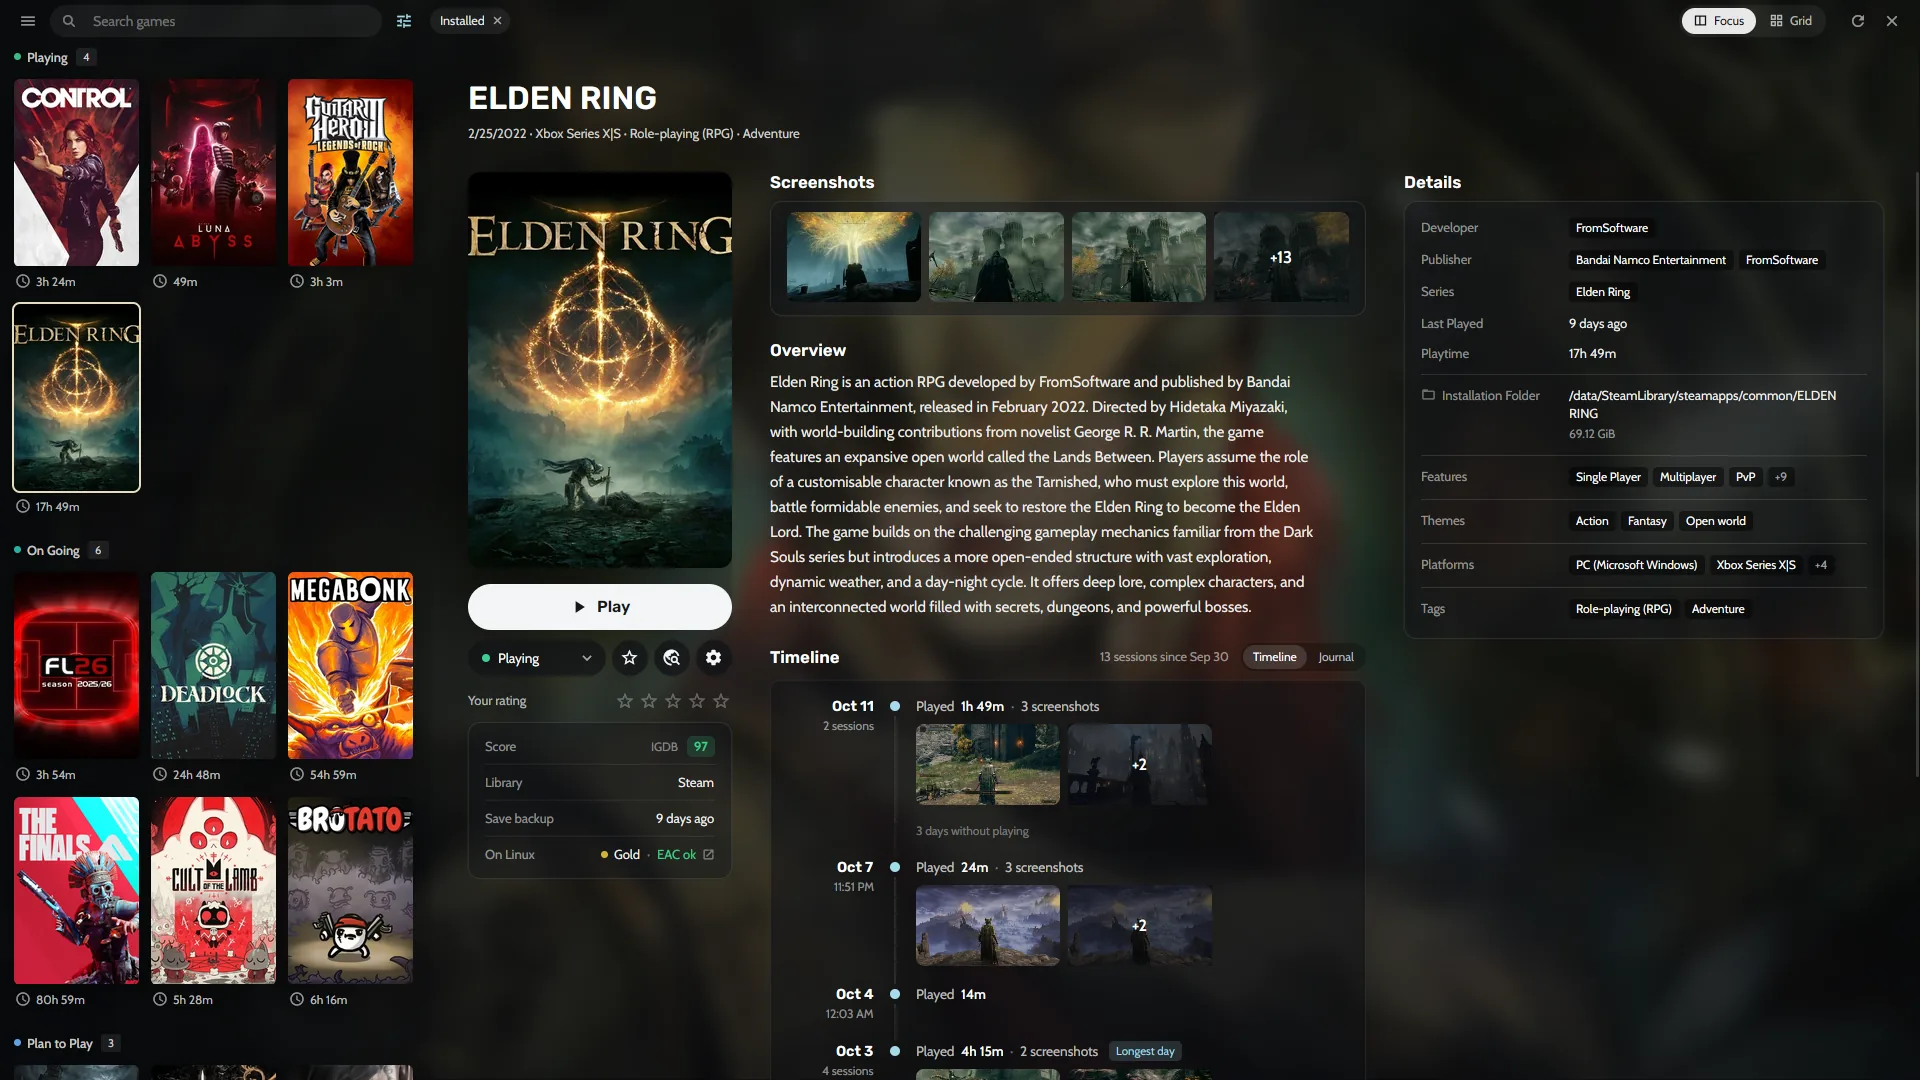
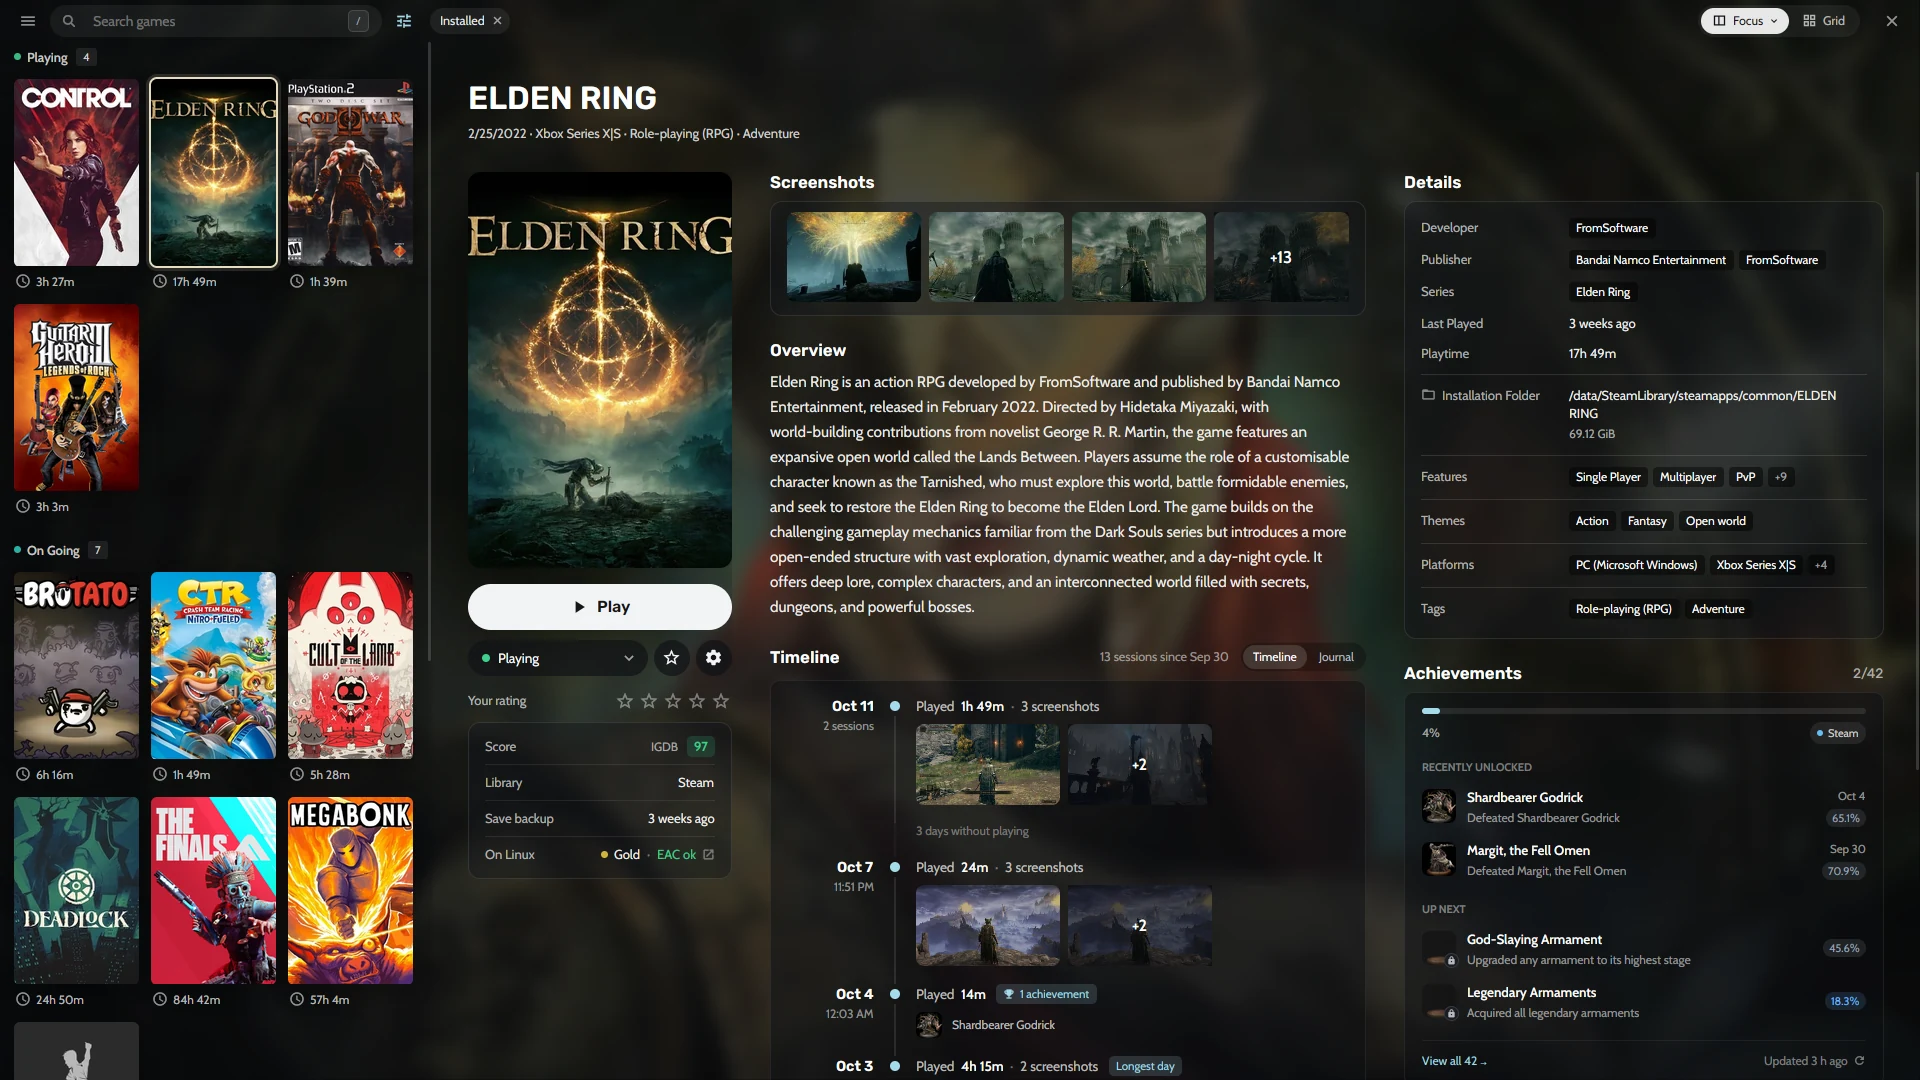
feat: new screenshots from Heronite 1.1.0, with achievements
The Collection shot is retaken from the 1.1.0 app at 1920x1080 and now
shows Elden Ring's Steam achievements, so the hero gains a sixth
callout for them and the others move to the new layout. The Ctrl+K
palette is retaken too, and console mode is shown with the carousel
of games in progress and Elden Ring's game panel.

diff --git a/src/i18n/es.ts b/src/i18n/es.ts
@@ -170,9 +170,9 @@ const es: Dict = {
     sourceGroups: [{ label: 'Sin iniciar sesión.', note: 'Las bibliotecas de Steam se leen por ti.' }, { label: 'Inicia sesión una vez.', note: 'Instala, actualiza y juega desde Heronite.' }, { label: 'Prefijo de Wine propio.', note: 'Cada lanzador se ejecuta en su propio prefijo en Linux.' }],
     sourcesFoot: 'Tus datos de acceso se quedan en tu PC.',
     collection: {
-      alt: 'La Colección de Heronite: portadas de juegos agrupadas en Jugando y En curso, con el tiempo de juego bajo cada una, y ELDEN RING abierto con su portada, el botón Jugar, la nota, la valoración en Linux y una línea de tiempo de sesiones.',
-      callouts: ['Agrupar por estado', 'Tiempo de juego por juego', 'Valoración en Linux y anti-cheat', 'Tu línea de tiempo', 'Lista o cuadrícula de portadas'],
-      caption: 'La pantalla Colección de Heronite, con cinco partes resaltadas.',
+      alt: 'La Colección de Heronite: portadas agrupadas en Jugando y En curso, con el tiempo de juego debajo de cada una, y ELDEN RING abierto con su portada, el botón Jugar, la nota, la valoración en Linux, una línea de tiempo de sesiones y sus logros de Steam, 2 de 42 desbloqueados.',
+      callouts: ['Agrupar por estado', 'Tiempo de juego por juego', 'Valoración en Linux y anti-cheat', 'Tu línea de tiempo', 'Lista o cuadrícula de portadas', 'Logros por desbloquear'],
+      caption: 'La pantalla Colección de Heronite, con seis partes destacadas.',
       legendLabel: 'A qué apuntan los números',
     },
     extras: {
@@ -223,8 +223,8 @@ const es: Dict = {
       themes: 'O crea el tuyo y compártelo.',
       deckTitle: 'Modo Juego de Steam',
       deckHtml: 'Añádelo a Steam con <code>--console</code>, o ábrelo al conectar un mando.',
-      homeAlt: 'Inicio del modo consola: SP Football Life 2026 destacado sobre una estantería Seguir jugando con portadas, y pistas del mando en la parte inferior',
-      gameAlt: 'Página de juego del modo consola para Elden Ring, con un gran botón Jugar',
+      homeAlt: 'Modo consola: un carrusel de los juegos en curso, con Control enfocado entre Brotato y Crash Team Racing, y su tienda, tiempo de juego y estado debajo',
+      gameAlt: 'Modo consola con ELDEN RING abierto: Jugar, Estado, Favorito, Ajustes del juego y Página completa, sobre el carrusel de portadas',
     },
     light: {
       headline: 'mediana, desde el arranque hasta tu biblioteca.',

diff --git a/src/i18n/pt-br.ts b/src/i18n/pt-br.ts
@@ -170,9 +170,9 @@ const ptBr: Dict = {
     sourceGroups: [{ label: 'Sem login.', note: 'As bibliotecas da Steam são lidas para você.' }, { label: 'Entre uma vez.', note: 'Instale, atualize e jogue pelo Heronite.' }, { label: 'Prefixo próprio do Wine.', note: 'Cada launcher roda no seu próprio prefixo no Linux.' }],
     sourcesFoot: 'Seus logins ficam no seu PC.',
     collection: {
-      alt: 'A Coleção do Heronite: capas de jogos agrupadas em Jogando e Em andamento, com o tempo de jogo embaixo de cada uma, e ELDEN RING aberto com a capa, o botão Jogar, a nota, a avaliação no Linux e uma linha do tempo das sessões.',
-      callouts: ['Agrupar por status', 'Tempo de jogo por jogo', 'Avaliação no Linux e anti-cheat', 'Sua linha do tempo', 'Lista ou grade de capas'],
-      caption: 'A tela Coleção do Heronite, com cinco partes destacadas.',
+      alt: 'A Coleção do Heronite: capas de jogos agrupadas em Jogando e Em andamento, com o tempo de jogo embaixo de cada uma, e ELDEN RING aberto com a capa, o botão Jogar, a nota, a avaliação no Linux, uma linha do tempo das sessões e as conquistas da Steam, 2 de 42 desbloqueadas.',
+      callouts: ['Agrupar por status', 'Tempo de jogo por jogo', 'Avaliação no Linux e anti-cheat', 'Sua linha do tempo', 'Lista ou grade de capas', 'Conquistas a desbloquear'],
+      caption: 'A tela Coleção do Heronite, com seis partes destacadas.',
       legendLabel: 'O que os números indicam',
     },
     extras: {
@@ -223,8 +223,8 @@ const ptBr: Dict = {
       themes: 'Ou crie o seu e compartilhe.',
       deckTitle: 'Modo Jogo da Steam',
       deckHtml: 'Adicione à Steam com <code>--console</code>, ou abra quando um controle conectar.',
-      homeAlt: 'Início do modo console: SP Football Life 2026 em destaque acima de uma prateleira Continuar jogando com capas, e dicas do controle na parte de baixo',
-      gameAlt: 'Página de jogo do modo console para Elden Ring, com um botão Jogar grande',
+      homeAlt: 'Modo console: um carrossel dos jogos em andamento, com Control em foco entre Brotato e Crash Team Racing, e a loja, o tempo de jogo e o status embaixo',
+      gameAlt: 'Modo console com ELDEN RING aberto: Jogar, Status, Favorito, Configurações do jogo e Página completa, sobre o carrossel de capas',
     },
     light: {
       headline: 'mediana, da abertura até a sua biblioteca.',

diff --git a/src/i18n/en.ts b/src/i18n/en.ts
@@ -172,9 +172,9 @@ const en = {
     sourceGroups: [{ label: 'No login.', note: 'Steam libraries are read for you.' }, { label: 'Log in once.', note: 'Install, update and play from Heronite.' }, { label: 'Own Wine prefix.', note: 'Each launcher runs in its own prefix on Linux.' }],
     sourcesFoot: 'Your logins stay on your PC.',
     collection: {
-      alt: 'Heronite’s Collection: game covers grouped into Playing and On Going, with play time under each, and ELDEN RING open with its cover, Play button, score, Linux rating and a timeline of play sessions.',
-      callouts: ['Group by status', 'Play time per game', 'Linux rating and anti-cheat', 'Your timeline', 'List or grid of covers'],
-      caption: 'The Collection screen in Heronite, with five highlighted parts.',
+      alt: 'Heronite’s Collection: game covers grouped into Playing and On Going, with play time under each, and ELDEN RING open with its cover, Play button, score, Linux rating, a timeline of play sessions and its Steam achievements, 2 of 42 unlocked.',
+      callouts: ['Group by status', 'Play time per game', 'Linux rating and anti-cheat', 'Your timeline', 'List or grid of covers', 'Achievements to unlock next'],
+      caption: 'The Collection screen in Heronite, with six highlighted parts.',
       legendLabel: 'What the numbers point at',
     },
     extras: {
@@ -225,8 +225,8 @@ const en = {
       themes: 'Or make your own and share it.',
       deckTitle: 'Steam Gaming Mode',
       deckHtml: 'Add it to Steam with <code>--console</code>, or open it when a controller connects.',
-      homeAlt: 'Console mode home: SP Football Life 2026 in focus above a Continue playing shelf of covers, controller hints along the bottom',
-      gameAlt: 'Console game page for Elden Ring with a large Play button',
+      homeAlt: 'Console mode: a carousel of the games in progress, with Control in focus between Brotato and Crash Team Racing, its store, play time and status underneath',
+      gameAlt: 'Console mode with ELDEN RING open: Play, Status, Favourite, Game settings and Full page, over the carousel of covers',
     },
     light: {
       headline: 'median, from start to your library.',

diff --git a/src/styles/home.css b/src/styles/home.css
@@ -131,7 +131,7 @@
   box-shadow:inset 0 1.5px 0 rgba(255,255,255,.09),inset 0 -8px 24px rgba(0,0,0,.55),0 0 0 1px rgba(0,0,0,.6),0 60px 120px -40px rgba(0,0,0,.95),0 30px 80px -30px rgba(143,211,234,.14)}
 .hh-screen{position:relative;aspect-ratio:16 / 10;border-radius:1.4cqw;overflow:hidden;background:#000;box-shadow:0 0 0 1.1cqw #090a0c,0 0 0 calc(1.1cqw + 1px) rgba(255,255,255,.06)}
 .hh-screen picture{display:block;height:100%}
-.hh-screen img{width:100%;height:100%;object-fit:cover;object-position:28% 50%}
+.hh-screen img{width:100%;height:100%;object-fit:cover;object-position:50% 50%}
 .hh-side{display:flex;flex-direction:column;align-items:center;justify-content:center;gap:3cqw;height:100%}
 .hh-side i{display:block;flex:none}
 .hh-stick{width:7.4cqw;height:7.4cqw;border-radius:50%;background:radial-gradient(circle at 50% 42%,#3a3e45 0 38%,#24272c 40% 62%,#121316 64%);box-shadow:0 .4cqw .8cqw rgba(0,0,0,.6),inset 0 .2cqw 0 rgba(255,255,255,.08)}
